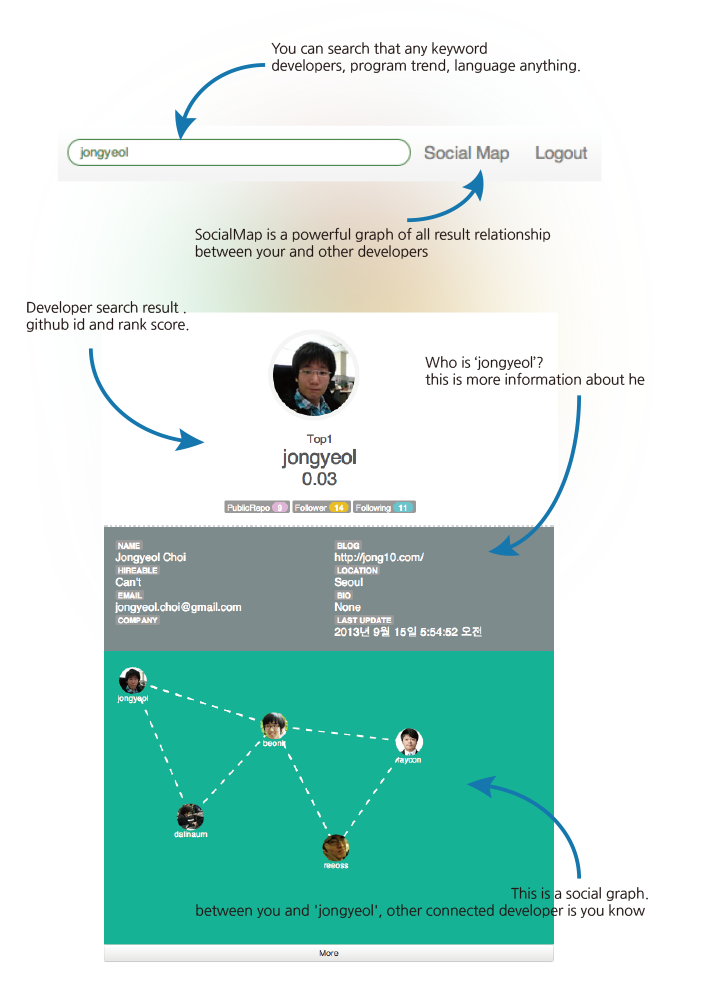
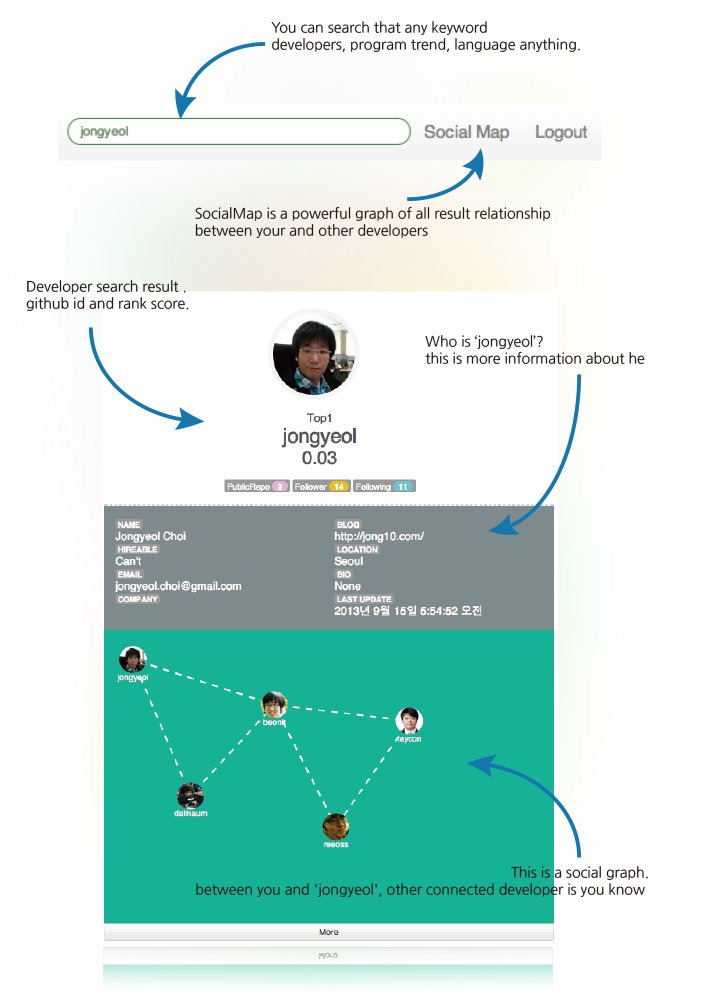
www: modify socialmap loading bar

diff --git a/www/icecream/bibibig/static/resources/js/devrank.js b/www/icecream/bibibig/static/resources/js/devrank.js
@@ -64,6 +64,7 @@ function initialize(me, query) {
     $(".social-progress").hide();
     $("#social_map").on("click",{ me : "{{me}}"}, function(d){
         var id = "social-map-content";
+        var draw = ".social-map-draw";
         var toggle = $(this).hasClass("toggle");
 
         if (toggle == false){
@@ -92,14 +93,14 @@ function initialize(me, query) {
                       url: "/social.json?users=" + users,
                       success: function(result, status, xhr) {
                           $(".social-progress").hide();
-                          social_rel(result, '#' + id, width, height, false);
+                          social_rel(result, draw, width, height, false);
                       },
                     });
                 }
             );
         }else{
             if(xhr_socialmap){
-              $(".social-progress").hide();
+                $(".social-progress").hide();
               xhr_socialmap.abort();
             }
             $(this).toggleClass("toggle");
@@ -110,7 +111,7 @@ function initialize(me, query) {
                 { height: 0 },
                 'slow',
                 function() {
-                    $("#"+id).empty();
+                    $(draw).empty();
                     $("#"+id).hide();
                 }
             );

diff --git a/www/icecream/bibibig/templates/result_list.html b/www/icecream/bibibig/templates/result_list.html
@@ -12,9 +12,11 @@
 {% endblock %}
 
 {% block body %}
-<div id="social-map-content" > </div>
-<div class="social-progress row-fluid progress progress-striped active">
-    <div class="span12 bar"></div>
+<div id="social-map-content">
+    <div class="social-progress row-fluid progress progress-striped active">
+        <div class="span12 bar"></div>
+    </div>
+    <div class="social-map-draw"></div>
 </div>
 <div class="navbar navbar-static-top">
   <div id="result_head" class="navbar-inner">

diff --git a/www/icecream/bibibig/views.py b/www/icecream/bibibig/views.py
@@ -71,7 +71,6 @@ class search(View):
 
             var = RequestContext(request, {
                     'page_title': u'Devrank',
-                    'length': len(details),
                     'results': details,
                     'query': request.GET.get(u'q'),
                     'login': logined,
